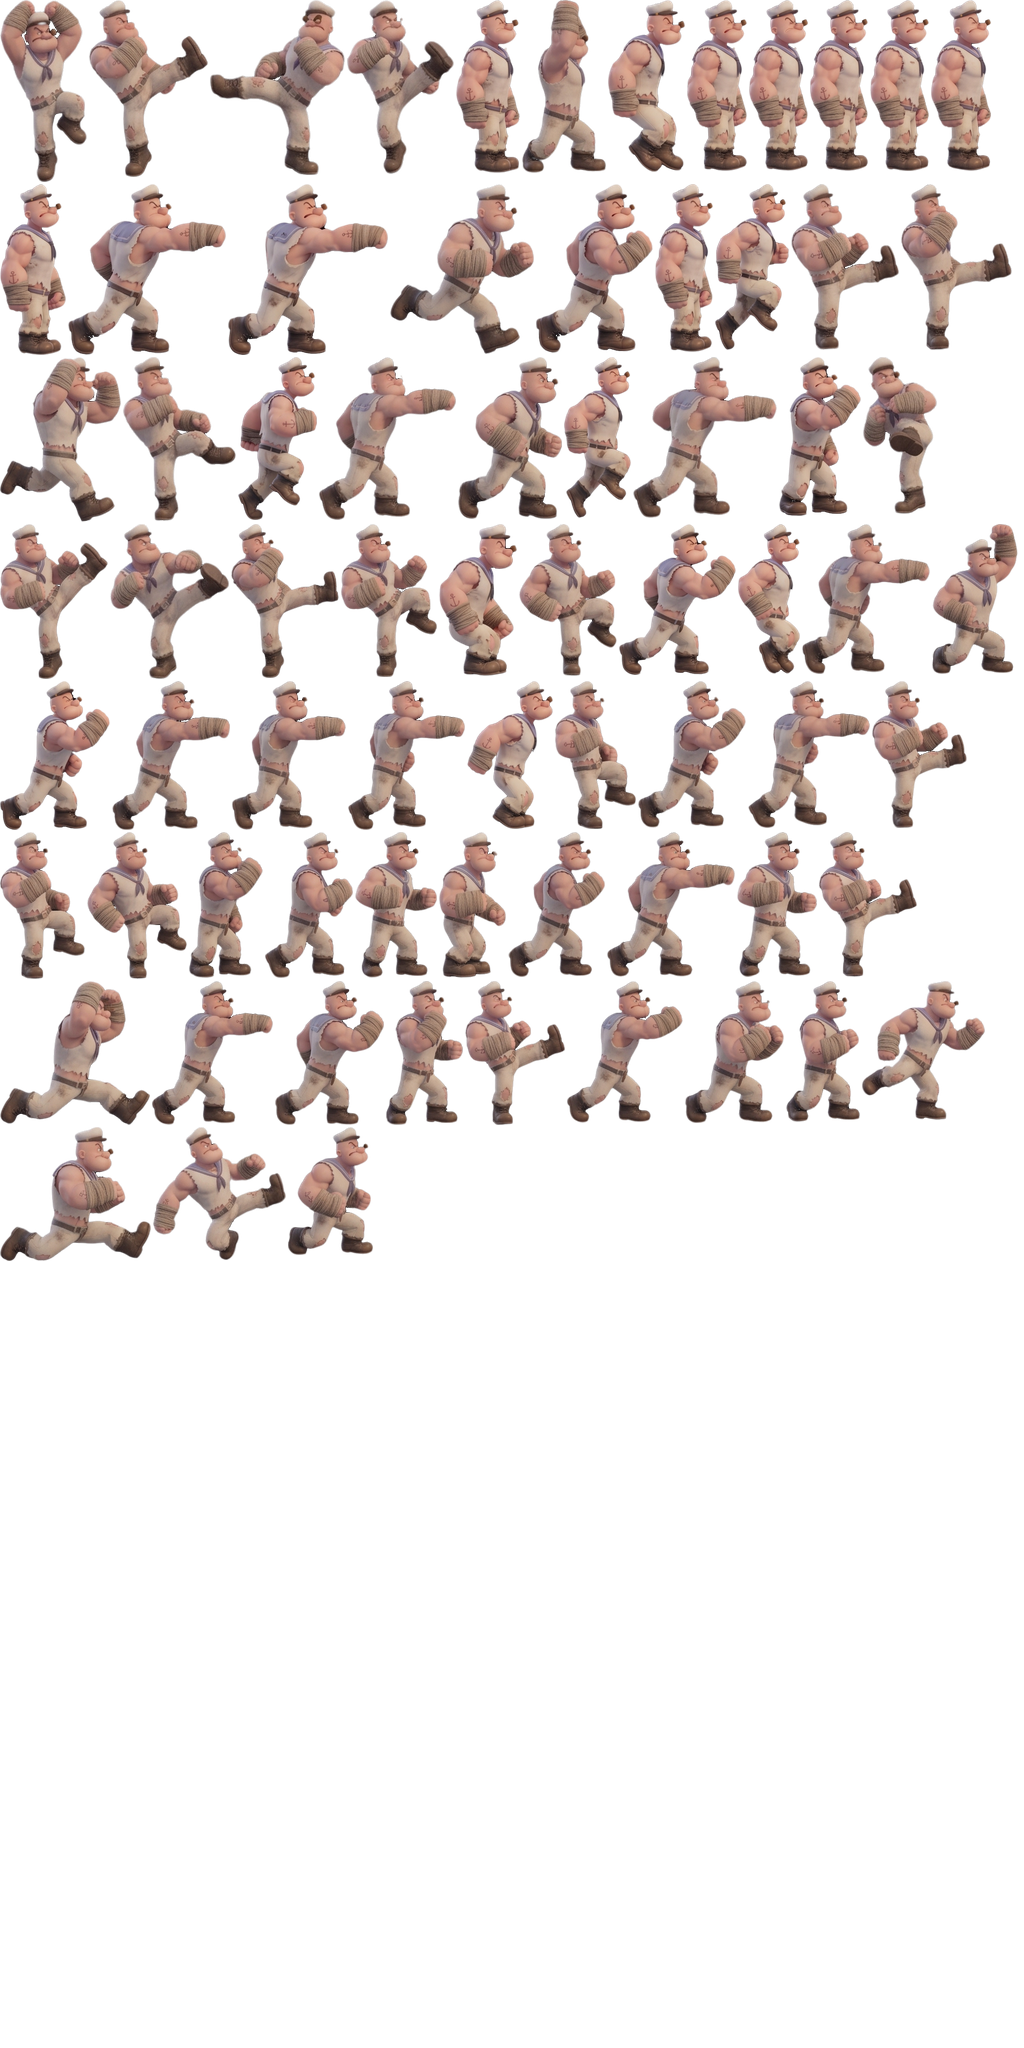
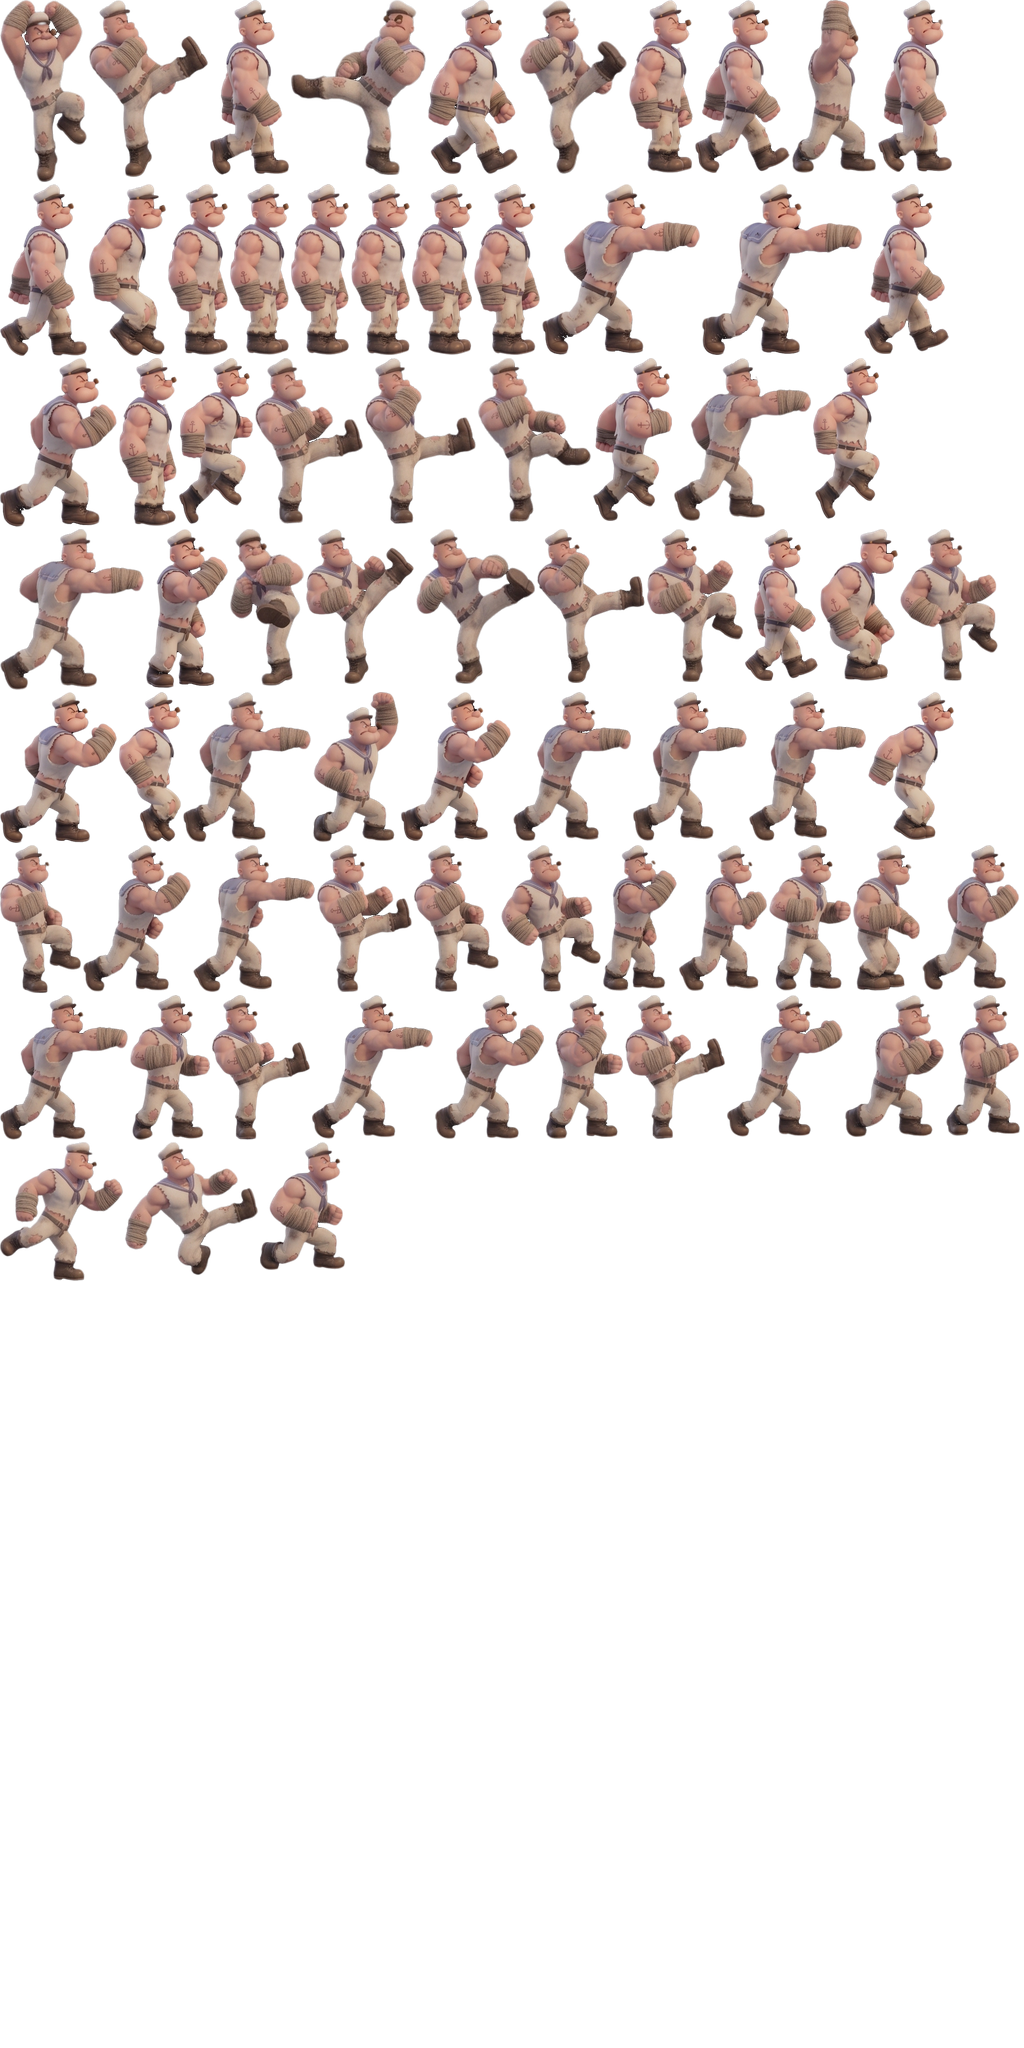
v0.04: yürüme = zıplama sayfası 2. satır, yavaş
Claude-Session: https://claude.ai/code/session_01CLVmZD2rE4e7quamjDPHcs

diff --git a/www/assets/popeye_data.js b/www/assets/popeye_data.js
@@ -1,4 +1,4 @@
 // Otomatik üretildi (atlas paketleme). Elle değiştirme.
 // KARE_SAYISI: animasyon -> kare adedi, ANKOR: kare -> [ayakX, ayakY, genişlik, yükseklik] (atlas pikseli)
-const POPEYE_KARE = {"idle": 8, "walk": 5, "jump": 7, "punch_a": 6, "jab": 8, "cross": 7, "upper": 8, "kick1": 7, "kick2": 7, "aerial": 8};
-const POPEYE_ANKOR = {"aerial_2":[45.5,182.0,87,182],"kick2_4":[46.5,177.0,119,177],"aerial_6":[91.0,175.0,135,175],"aerial_1":[45.5,174.0,107,174],"idle_7":[40.0,173.0,64,173],"upper_3":[44.6,173.0,84,173],"jump_5":[52.5,172.0,77,172],"idle_0":[38.0,171.0,60,171],"idle_1":[37.0,171.0,59,171],"idle_2":[36.0,171.0,58,171],"idle_4":[36.5,171.0,59,171],"idle_5":[37.0,171.0,60,171],"idle_6":[39.0,171.0,66,171],"punch_a_2":[56.4,171.0,158,171],"punch_a_3":[54.0,171.0,160,171],"walk_1":[107.0,170.0,144,170],"punch_a_1":[56.0,169.0,117,169],"idle_3":[35.5,168.0,58,168],"jump_2":[12.0,166.0,74,166],"kick1_1":[35.5,166.0,108,166],"kick1_4":[36.0,166.0,111,166],"walk_0":[93.5,165.0,121,165],"aerial_4":[42.5,164.0,113,164],"jump_1":[15.0,163.0,79,163],"cross_3":[50.5,163.0,137,163],"walk_4":[55.8,162.0,104,162],"jump_3":[15.0,161.0,67,161],"cross_0":[54.2,161.0,144,161],"punch_a_5":[33.8,159.0,82,159],"aerial_5":[46.5,157.0,74,157],"kick2_3":[48.0,155.0,108,155],"aerial_3":[52.5,155.0,119,155],"kick2_5":[40.0,154.0,108,154],"kick2_2":[45.0,153.0,96,153],"jump_6":[45.5,152.0,78,152],"kick2_1":[52.5,152.0,98,152],"punch_a_4":[50.4,151.0,117,151],"jump_4":[40.5,150.0,62,150],"cross_1":[46.7,150.0,128,150],"upper_2":[40.7,150.0,86,150],"punch_a_0":[48.9,149.0,110,149],"jab_2":[47.8,149.0,118,149],"cross_4":[45.5,149.0,114,149],"cross_5":[43.1,149.0,117,149],"jump_0":[46.5,148.0,86,148],"kick1_6":[34.5,148.0,81,148],"jab_0":[48.2,147.0,108,147],"cross_2":[43.1,147.0,122,147],"kick1_0":[30.0,147.0,95,147],"kick1_5":[31.5,147.0,85,147],"kick2_0":[50.5,147.0,100,147],"jab_7":[30.8,146.0,74,146],"cross_6":[44.0,146.0,88,146],"upper_7":[40.8,146.0,82,146],"kick2_6":[27.5,146.0,67,146],"jab_1":[46.5,145.0,97,145],"jab_3":[48.2,145.0,128,145],"upper_6":[38.9,145.0,80,145],"kick1_2":[33.5,145.0,98,145],"walk_2":[58.3,144.0,150,144],"jab_4":[45.7,144.0,121,144],"jab_6":[45.7,144.0,109,144],"upper_5":[37.5,144.0,77,144],"kick1_3":[37.0,144.0,100,144],"jab_5":[46.9,142.0,116,142],"upper_0":[47.8,142.0,99,142],"upper_4":[39.5,141.0,74,141],"aerial_7":[68.0,139.0,123,139],"walk_3":[60.1,134.0,151,134],"aerial_0":[71.0,133.0,133,133],"upper_1":[42.0,128.0,85,128]};
+const POPEYE_KARE = {"idle": 8, "walk": 7, "jump": 7, "punch_a": 6, "jab": 8, "cross": 7, "upper": 8, "kick1": 7, "kick2": 7, "aerial": 8};
+const POPEYE_ANKOR = {"aerial_2":[45.5,182.0,87,182],"kick2_4":[46.5,177.0,119,177],"walk_2":[44.2,175.0,79,175],"aerial_6":[91.0,175.0,135,175],"walk_0":[49.0,174.0,90,174],"aerial_1":[45.5,174.0,107,174],"idle_7":[40.0,173.0,64,173],"walk_3":[49.8,173.0,95,173],"upper_3":[44.6,173.0,84,173],"walk_1":[40.9,172.0,74,172],"walk_4":[49.2,172.0,87,172],"jump_5":[52.5,172.0,77,172],"idle_0":[38.0,171.0,60,171],"idle_1":[37.0,171.0,59,171],"idle_2":[36.0,171.0,58,171],"idle_4":[36.5,171.0,59,171],"idle_5":[37.0,171.0,60,171],"idle_6":[39.0,171.0,66,171],"punch_a_2":[56.4,171.0,158,171],"punch_a_3":[54.0,171.0,160,171],"walk_5":[43.8,170.0,85,170],"punch_a_1":[56.0,169.0,117,169],"idle_3":[35.5,168.0,58,168],"jump_2":[12.0,166.0,74,166],"kick1_1":[35.5,166.0,108,166],"kick1_4":[36.0,166.0,111,166],"aerial_4":[42.5,164.0,113,164],"jump_1":[15.0,163.0,79,163],"cross_3":[50.5,163.0,137,163],"jump_3":[15.0,161.0,67,161],"cross_0":[54.2,161.0,144,161],"punch_a_5":[33.8,159.0,82,159],"aerial_5":[46.5,157.0,74,157],"kick2_3":[48.0,155.0,108,155],"aerial_3":[52.5,155.0,119,155],"kick2_5":[40.0,154.0,108,154],"kick2_2":[45.0,153.0,96,153],"walk_6":[36.4,152.0,73,152],"jump_6":[45.5,152.0,78,152],"kick2_1":[52.5,152.0,98,152],"punch_a_4":[50.4,151.0,117,151],"jump_4":[40.5,150.0,62,150],"cross_1":[46.7,150.0,128,150],"upper_2":[40.7,150.0,86,150],"punch_a_0":[48.9,149.0,110,149],"jab_2":[47.8,149.0,118,149],"cross_4":[45.5,149.0,114,149],"cross_5":[43.1,149.0,117,149],"jump_0":[46.5,148.0,86,148],"kick1_6":[34.5,148.0,81,148],"jab_0":[48.2,147.0,108,147],"cross_2":[43.1,147.0,122,147],"kick1_0":[30.0,147.0,95,147],"kick1_5":[31.5,147.0,85,147],"kick2_0":[50.5,147.0,100,147],"jab_7":[30.8,146.0,74,146],"cross_6":[44.0,146.0,88,146],"upper_7":[40.8,146.0,82,146],"kick2_6":[27.5,146.0,67,146],"jab_1":[46.5,145.0,97,145],"jab_3":[48.2,145.0,128,145],"upper_6":[38.9,145.0,80,145],"kick1_2":[33.5,145.0,98,145],"jab_4":[45.7,144.0,121,144],"jab_6":[45.7,144.0,109,144],"upper_5":[37.5,144.0,77,144],"kick1_3":[37.0,144.0,100,144],"jab_5":[46.9,142.0,116,142],"upper_0":[47.8,142.0,99,142],"upper_4":[39.5,141.0,74,141],"aerial_7":[68.0,139.0,123,139],"aerial_0":[71.0,133.0,133,133],"upper_1":[42.0,128.0,85,128]};

diff --git a/www/config.js b/www/config.js
@@ -1,7 +1,7 @@
 // Popeye Fighter - genel ayarlar
 // Her değişiklikte SURUM artırılır.
 const AYAR = {
-  SURUM: 'v0.03',
+  SURUM: 'v0.04',
 
   // Ekran (yatay)
   GENISLIK: 960,
